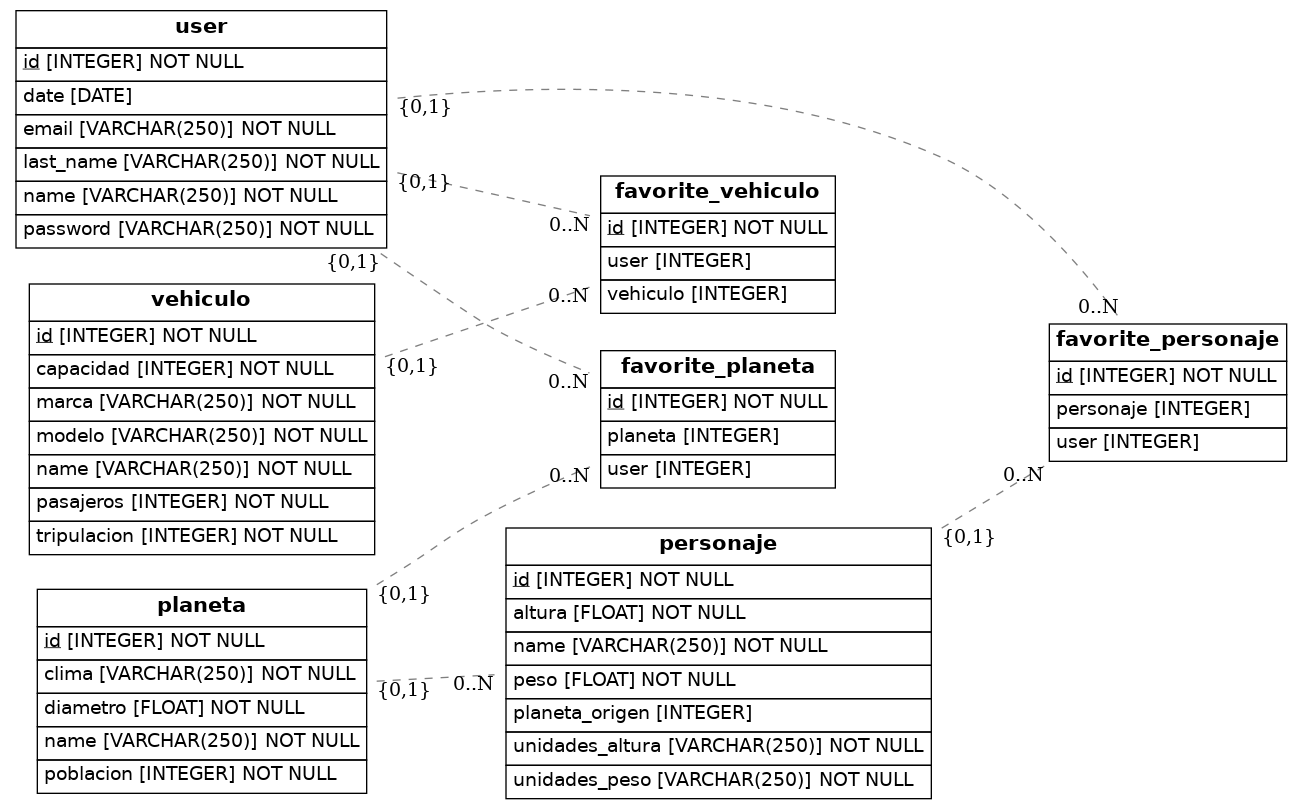
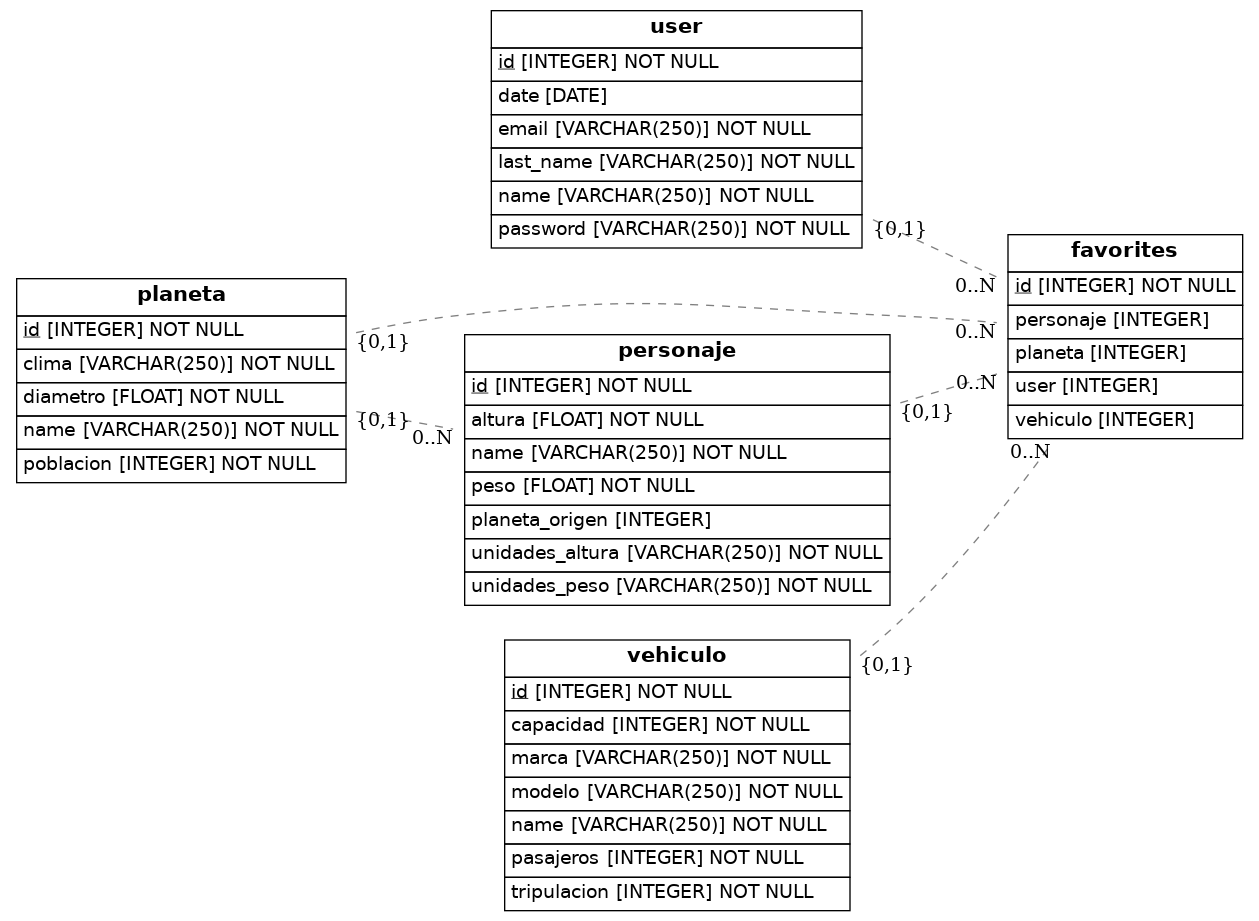
only one favorite colummn

diff --git a/src/models.py b/src/models.py
@@ -56,33 +56,44 @@ class Vehiculo(Base):
     def to_dict(self):
         return {}
     
-class Favorite_personaje(Base):
-    __tablename__ = 'favorite_personaje'
+class Favorites(Base):
+    __tablename__ = 'favorites'
     id = Column(Integer, primary_key = True)
     user = Column(Integer, ForeignKey('user.id'))
     personaje = Column(Integer, ForeignKey('personaje.id'))
-
-    def to_dict(self):
-        return {}
-    
-class Favorite_planeta(Base):
-    __tablename__ = 'favorite_planeta'
-    id = Column(Integer, primary_key = True)
-    user = Column(Integer, ForeignKey('user.id'))
     planeta = Column(Integer, ForeignKey('planeta.id'))
-
-    def to_dict(self):
-        return {}
-    
-class Favorite_vehiculo(Base):
-    __tablename__ = 'favorite_vehiculo'
-    id = Column(Integer, primary_key = True)
-    user = Column(Integer, ForeignKey('user.id'))
     vehiculo = Column(Integer, ForeignKey('vehiculo.id'))
 
     def to_dict(self):
         return {}
 
+
+# class Favorite_personaje(Base):
+#     __tablename__ = 'favorite_personaje'
+#     id = Column(Integer, primary_key = True)
+#     user = Column(Integer, ForeignKey('user.id'))
+#     personaje = Column(Integer, ForeignKey('personaje.id'))
+
+#     def to_dict(self):
+#         return {}
+    
+# class Favorite_planeta(Base):
+#     __tablename__ = 'favorite_planeta'
+#     id = Column(Integer, primary_key = True)
+#     user = Column(Integer, ForeignKey('user.id'))
+#     planeta = Column(Integer, ForeignKey('planeta.id'))
+
+#     def to_dict(self):
+#         return {}
+    
+# class Favorite_vehiculo(Base):
+#     __tablename__ = 'favorite_vehiculo'
+#     id = Column(Integer, primary_key = True)
+#     user = Column(Integer, ForeignKey('user.id'))
+#     vehiculo = Column(Integer, ForeignKey('vehiculo.id'))
+
+#     def to_dict(self):
+#         return {}
 
 
 ## Draw from SQLAlchemy base
